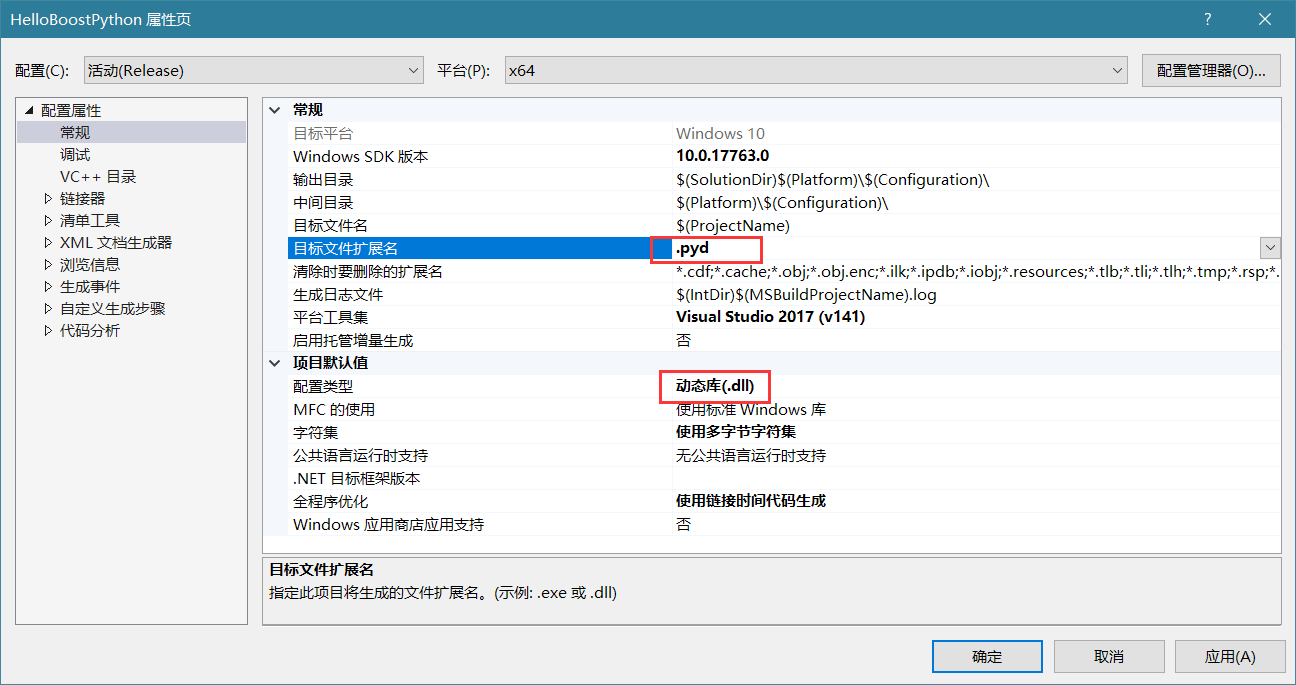
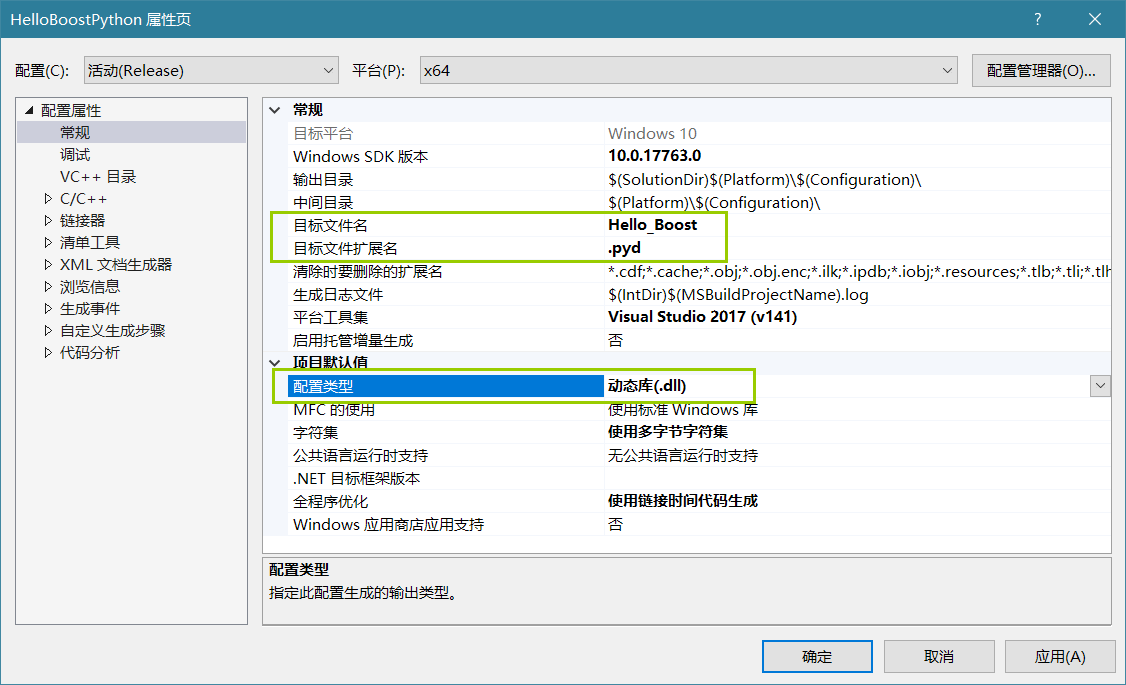
update

diff --git a/start/HelloBoostPython/main.cpp b/start/HelloBoostPython/main.cpp
@@ -15,7 +15,7 @@ const char * hello_world() {
 }
 
 
-
+// 此处 Hello_Boost 应该与之前设置的目标文件扩展名一致
 BOOST_PYTHON_MODULE( Hello_Boost ) {
 	using namespace boost::python;
 	def( "hello_boost", hello_boost );
